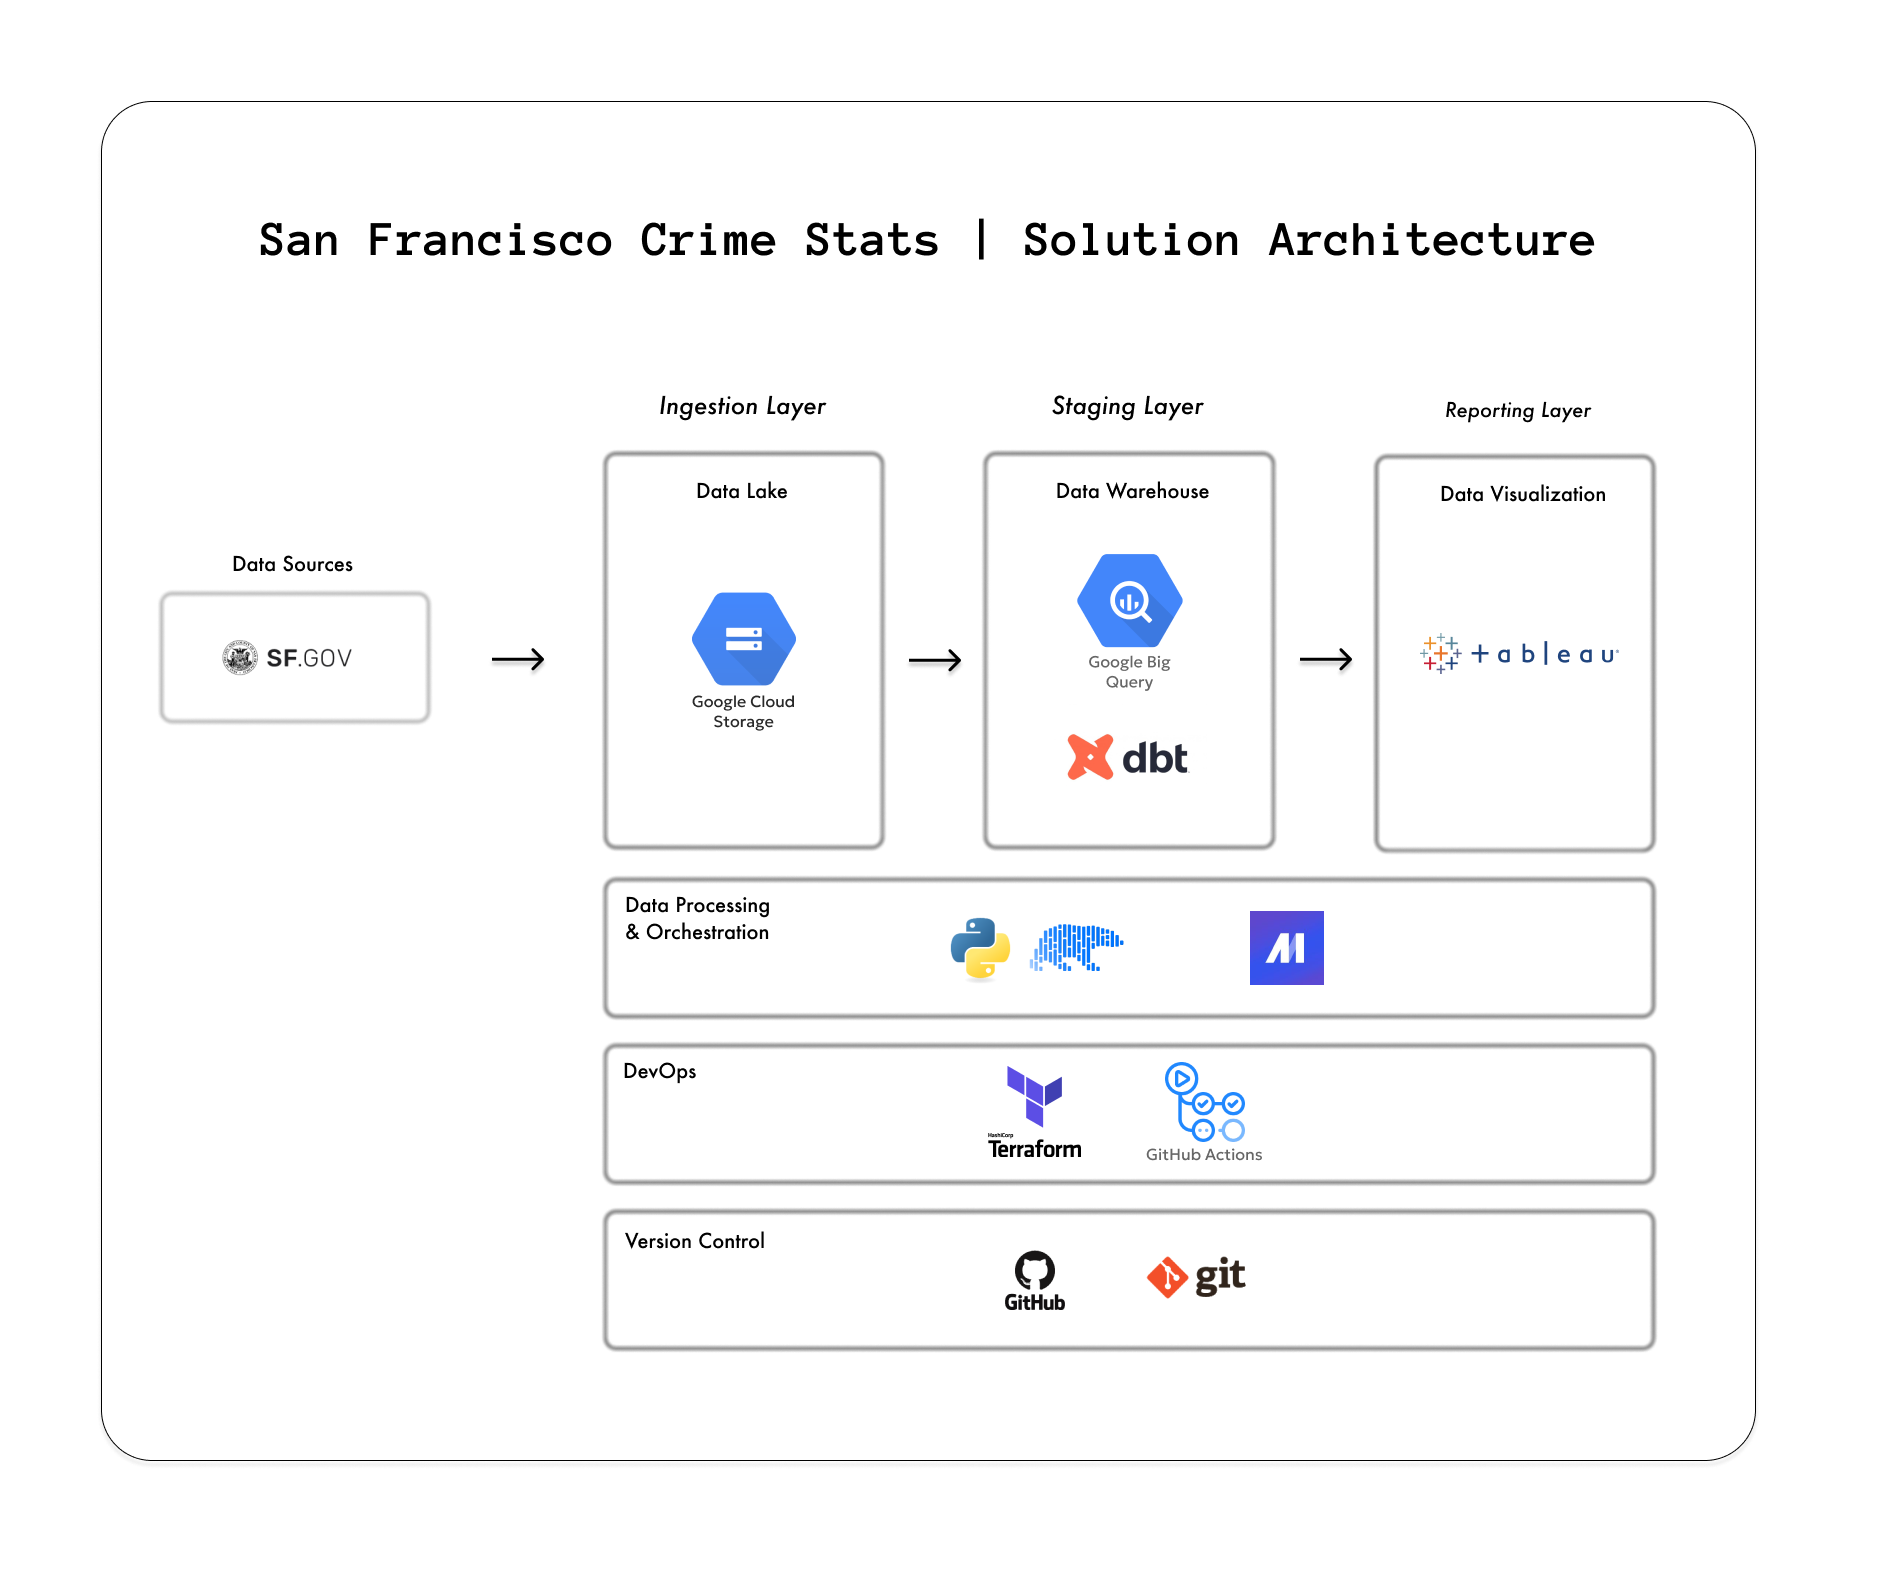
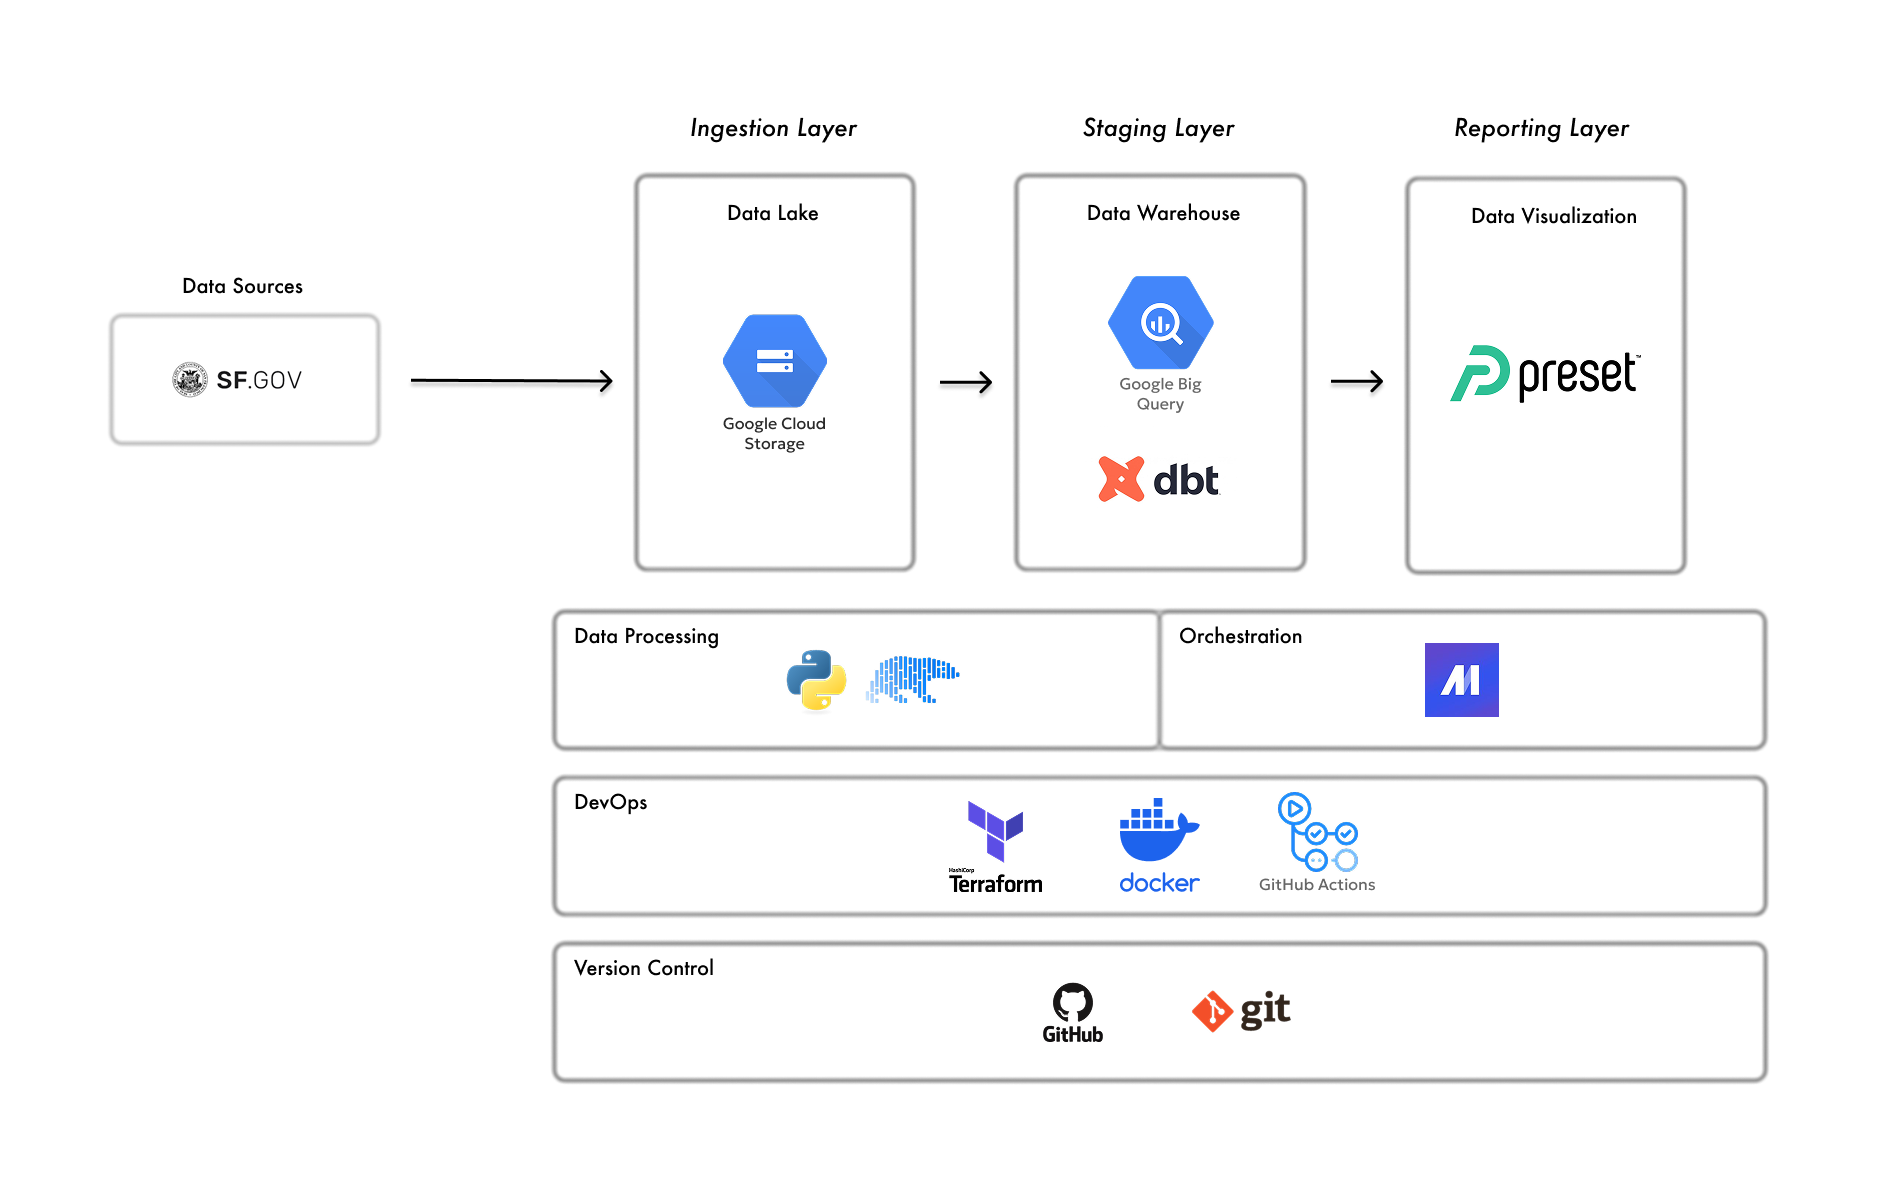
Update README.md

diff --git a/README.md b/README.md
@@ -45,8 +45,8 @@ The SFPD publishes detailed, regularly updated incident data through the city's 
 ## 2.2. Tech Stack
 - **Storage:** GCP Buckets, Parquet
 - **Data Processing:** BigQuery, Python, Polars, dbt Core
-- **Data Visualization:** Preset Cloud/Superset 
-- **Orchestration:** Mage AI
+- **Data Visualization:** [Preset Cloud/Superset](https://preset.io/)
+- **Orchestration:** [Mage AI](https://www.mage.ai/)
 - **DevOps:** Terraform, Docker, GitHub, GitHub Actions
 
 ## 2.3. Data Model
